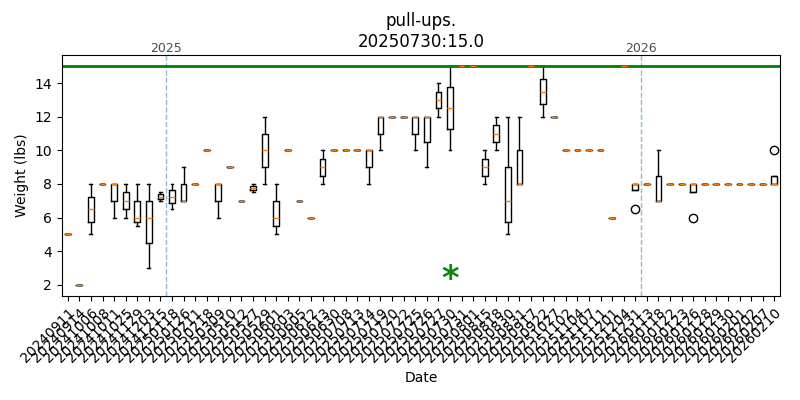
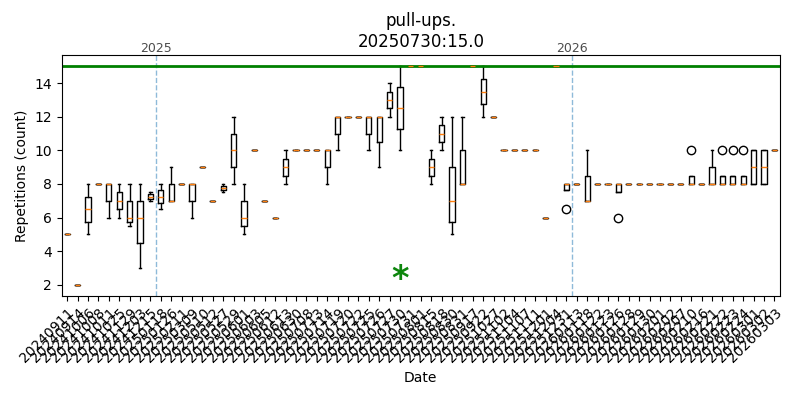
refactor config. fix ylabel for rep_exercises.

diff --git a/main.py b/main.py
@@ -1,3 +1,4 @@
+from config_utils import refresh_config, get_config, ConfigKey
 from notes_utils import get_notes
 from parser_utils import parse_html, parse_workout
 from date_utils import infer_workout_date_range
@@ -61,11 +62,7 @@ def extract_exercise_weights(workouts):
         dict[exercise_name][date] -> list[weights]
     """
 
-    with open("config.json", "r") as f:
-        config = json.load(f)
-
-    TRACK_REPS = "track_progress_with_reps"
-    rep_exercises = config.get(TRACK_REPS)
+    rep_exercises = get_config(ConfigKey.REP_EXERCISES)
 
 
     data = defaultdict(lambda: defaultdict(list))
@@ -206,6 +203,7 @@ def main():
 
 
 if __name__ == "__main__":
+    refresh_config()
     main()
 
 

diff --git a/plot_utils.py b/plot_utils.py
@@ -1,3 +1,4 @@
+from config_utils import get_config, ConfigKey
 import os
 import matplotlib.pyplot as plt
 
@@ -110,7 +111,12 @@ def plot_exercise_boxplot(exercise_name, exercise_data):
     date_index, pr = get_personal_record(weights)
     plt.title(f"{exercise_name}\n{dates[date_index]}:{pr}")
     plt.xlabel("Date")
-    plt.ylabel("Weight (lbs)")
+
+
+    if exercise_name in get_config(ConfigKey.REP_EXERCISES):
+        plt.ylabel("Repetitions (count)")
+    else:
+        plt.ylabel("Weight (lbs)")
 
     plt.xticks(rotation=45, ha='right', rotation_mode='anchor')
 

diff --git a/config_utils.py b/config_utils.py
@@ -1,0 +1,19 @@
+from enum import Enum
+import json
+
+CONFIG = None
+
+class ConfigKey(str, Enum):
+	REP_EXERCISES = "rep_exercises"
+
+def refresh_config():
+	global CONFIG
+	if CONFIG:
+		return None
+
+	with open("config.json", "r") as f:
+	    CONFIG = json.load(f)
+
+def get_config(key):
+	global CONFIG
+	return CONFIG.get(key)
